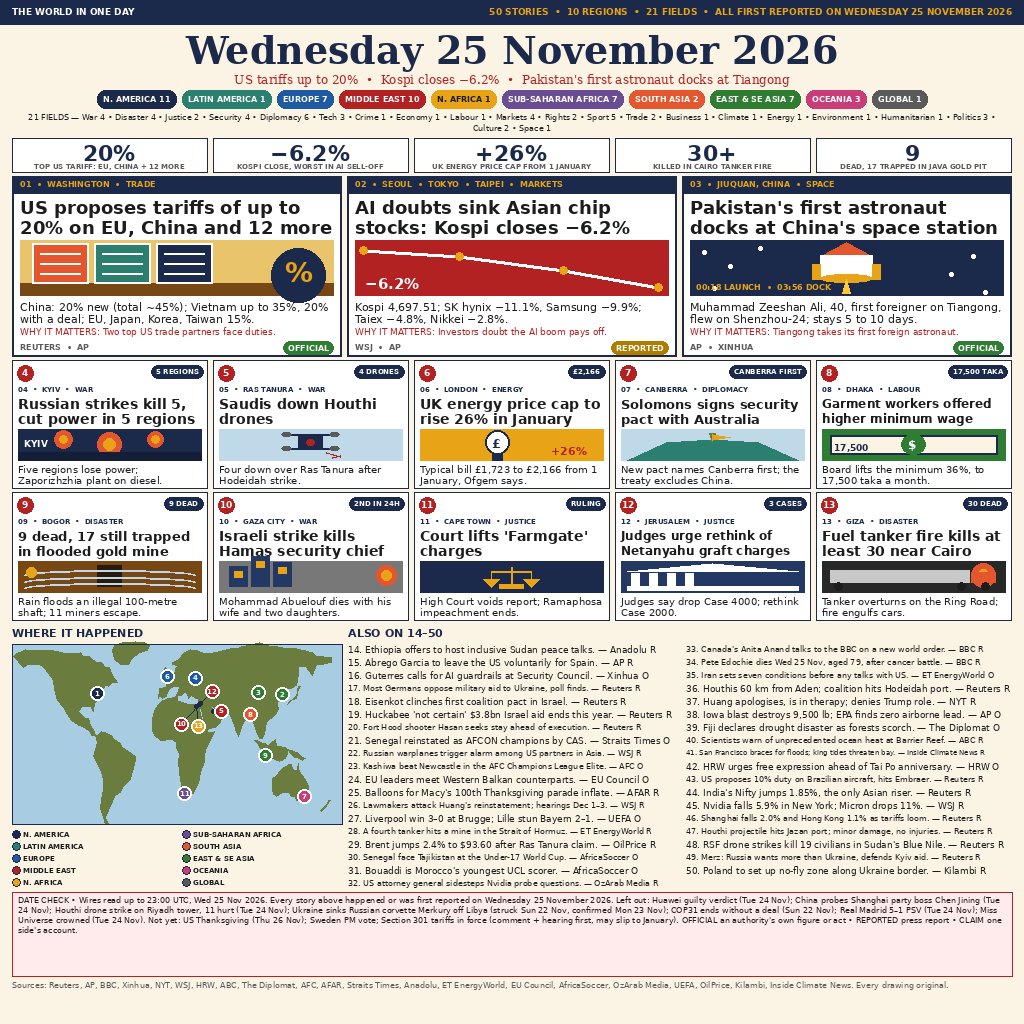
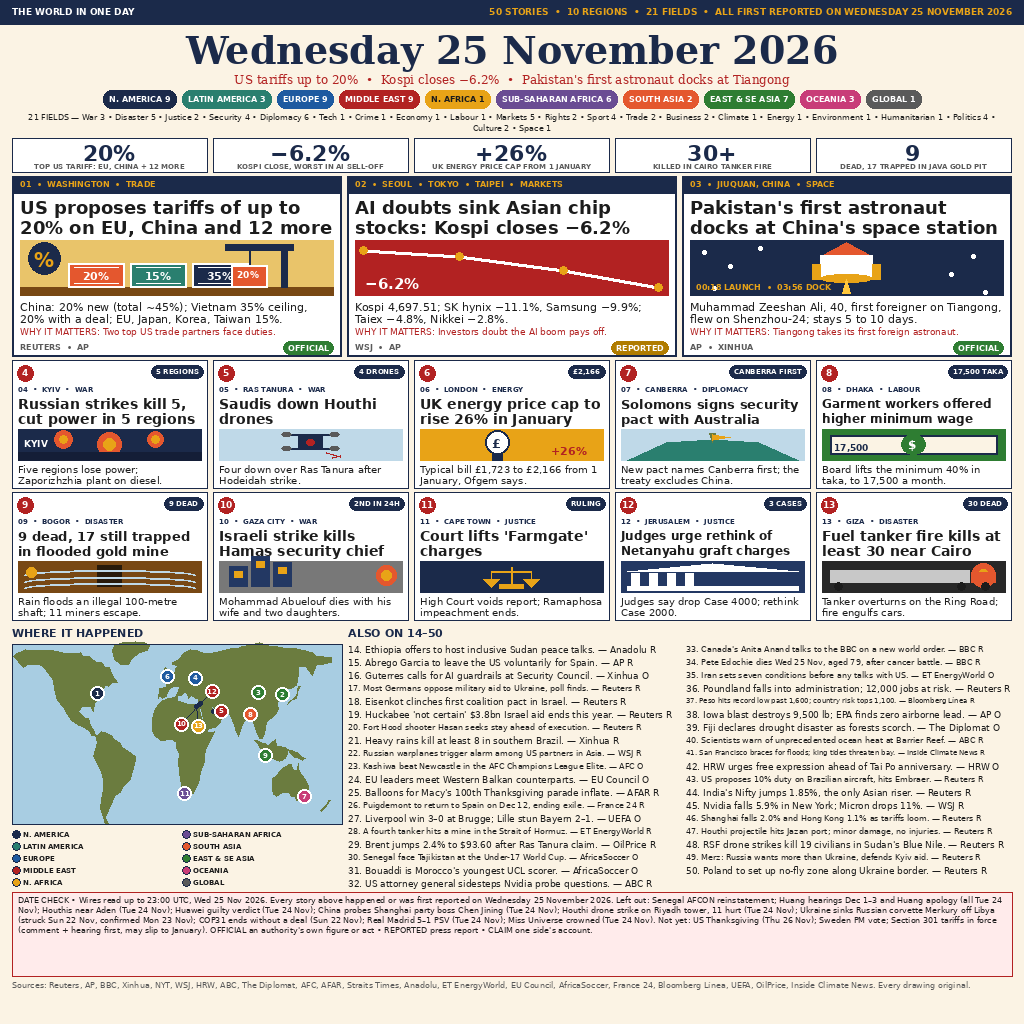
v6: fix stale items + 36% + panel 01 + breadth

diff --git a/draw.py b/draw.py
@@ -120,8 +120,8 @@ STORIES = [
     dict(num=1, region="N. AMERICA", field="Trade",
          kicker="01  •  WASHINGTON  •  TRADE",
          headline="US proposes tariffs of up to 20% on EU, China and 12 more",
-         deck="China: 20% new (total ~45%); Vietnam up to 35%, 20% with a deal; "
-              "EU, Japan, Korea, Taiwan 15%.",
+         deck="China: 20% new (total ~45%); Vietnam 35% ceiling, 20% with a "
+              "deal; EU, Japan, Korea, Taiwan 15%.",
          why="Two top US trade partners face duties.",
          source="REUTERS  •  AP", ver="O", art="tariffs"),
     dict(num=2, region="EAST & SE ASIA", field="Markets",
@@ -162,7 +162,7 @@ STORIES = [
     dict(num=8, region="SOUTH ASIA", field="Labour",
          kicker="08  •  DHAKA  •  LABOUR",
          headline="Garment workers offered higher minimum wage",
-         deck="Board lifts the minimum 36%, to 17,500 taka a month.",
+         deck="Board lifts the minimum 40% in taka, to 17,500 a month.",
          stat="17,500 TAKA", art="wage"),
     dict(num=9, region="EAST & SE ASIA", field="Disaster",
          kicker="09  •  BOGOR  •  DISASTER",
@@ -211,9 +211,9 @@ STORIES = [
     dict(num=20, region="N. AMERICA", field="Crime",
          text="Fort Hood shooter Hasan seeks stay ahead of execution.",
          source="Reuters", ver="R"),
-    dict(num=21, region="SUB-SAHARAN AFRICA", field="Sport",
-         text="Senegal reinstated as AFCON champions by CAS.",
-         source="Straits Times", ver="O"),
+    dict(num=21, region="LATIN AMERICA", field="Disaster",
+         text="Heavy rains kill at least 8 in southern Brazil.",
+         source="Xinhua", ver="R"),
     dict(num=22, region="EAST & SE ASIA", field="Security",
          text="Russian warplanes trigger alarm among US partners in Asia.",
          source="WSJ", ver="R"),
@@ -226,9 +226,9 @@ STORIES = [
     dict(num=25, region="N. AMERICA", field="Culture",
          text="Balloons for Macy's 100th Thanksgiving parade inflate.",
          source="AFAR", ver="R"),
-    dict(num=26, region="N. AMERICA", field="Tech",
-         text="Lawmakers attack Huang's reinstatement; hearings Dec 1–3.",
-         source="WSJ", ver="R"),
+    dict(num=26, region="EUROPE", field="Politics",
+         text="Puigdemont to return to Spain on Dec 12, ending exile.",
+         source="France 24", ver="R"),
     dict(num=27, region="EUROPE", field="Sport",
          text="Liverpool win 3–0 at Brugge; Lille stun Bayern 2–1.",
          source="UEFA", ver="O"),
@@ -246,7 +246,7 @@ STORIES = [
          source="AfricaSoccer", ver="O"),
     dict(num=32, region="N. AMERICA", field="Business",
          text="US attorney general sidesteps Nvidia probe questions.",
-         source="OzArab Media", ver="R"),
+         source="ABC", ver="R"),
     dict(num=33, region="N. AMERICA", field="Diplomacy",
          text="Canada's Anita Anand talks to the BBC on a new world order.",
          source="BBC", ver="R"),
@@ -256,12 +256,12 @@ STORIES = [
     dict(num=35, region="MIDDLE EAST", field="Diplomacy",
          text="Iran sets seven conditions before any talks with US.",
          source="ET EnergyWorld", ver="O"),
-    dict(num=36, region="MIDDLE EAST", field="War",
-         text="Houthis 60 km from Aden; coalition hits Hodeidah port.",
+    dict(num=36, region="EUROPE", field="Business",
+         text="Poundland falls into administration; 12,000 jobs at risk.",
          source="Reuters", ver="R"),
-    dict(num=37, region="N. AMERICA", field="Tech",
-         text="Huang apologises, is in therapy; denies Trump role.",
-         source="NYT", ver="R"),
+    dict(num=37, region="LATIN AMERICA", field="Markets",
+         text="Peso hits record low past 1,600; country risk tops 1,100.",
+         source="Bloomberg Línea", ver="R"),
     dict(num=38, region="N. AMERICA", field="Disaster",
          text="Iowa blast destroys 9,500 lb; EPA finds zero airborne lead.",
          source="AP", ver="O"),
@@ -300,7 +300,7 @@ STORIES = [
          source="Reuters", ver="R"),
     dict(num=50, region="EUROPE", field="Security",
          text="Poland to set up no-fly zone along Ukraine border.",
-         source="Kilambi", ver="R"),
+         source="Reuters", ver="R"),
 ]
 
 HEROES = STORIES[0:3]
@@ -317,7 +317,9 @@ NUMBERS = [
 
 DATE_CHECK = ("DATE CHECK  •  Wires read up to 23:00 UTC, Wed 25 Nov 2026. "
     "Every story above happened or was first reported on Wednesday "
-    "25 November 2026. Left out: Huawei guilty verdict (Tue 24 Nov); China "
+    "25 November 2026. Left out: Senegal AFCON reinstatement; Huang "
+    "hearings Dec 1–3 and Huang apology (all Tue 24 Nov); Houthis near "
+    "Aden (Tue 24 Nov); Huawei guilty verdict (Tue 24 Nov); China "
     "probes Shanghai party boss Chen Jining (Tue 24 Nov); Houthi drone "
     "strike on Riyadh tower, 11 hurt (Tue 24 Nov); Ukraine sinks Russian "
     "corvette Merkury off Libya (struck Sun 22 Nov, confirmed Mon 23 Nov); "
@@ -330,23 +332,39 @@ DATE_CHECK = ("DATE CHECK  •  Wires read up to 23:00 UTC, Wed 25 Nov 2026. "
 
 FOOTER = ("Sources: Reuters, AP, BBC, Xinhua, NYT, WSJ, HRW, ABC, "
     "The Diplomat, AFC, AFAR, Straits Times, Anadolu, ET EnergyWorld, "
-    "EU Council, AfricaSoccer, OzArab Media, UEFA, OilPrice, Kilambi, "
+    "EU Council, AfricaSoccer, France 24, Bloomberg Línea, UEFA, OilPrice, "
     "Inside Climate News. Every drawing original.")
 
 
 # ---- flat-vector art scenes (each draws inside box x,y,w,h) ----
 def art_tariffs(d, x, y, w, h):
+    # Port + tariff-rate containers: reads instantly at 300px.
     d.rectangle([x, y, x + w, y + h], fill=(233, 196, 106))
-    d.rectangle([x, y + h - 12, x + w, y + h], fill=BROWN)
-    for i, c in enumerate([(228, 87, 46), (42, 127, 111), (27, 42, 74)]):
-        bx = x + 12 + i * 62
-        d.rectangle([bx, y + h - 52, bx + 56, y + h - 12], fill=c,
+    d.rectangle([x, y + h - 8, x + w, y + h], fill=BROWN)
+    # big % stamp, top left
+    d.ellipse([x + 8, y + 2, x + 40, y + 34], fill=NAVY)
+    d.text((x + 14, y + 8), "%", font=font(20, bold=True), fill=MUSTARD)
+    # rate-labelled containers along the quay
+    rates = [("20%", CORAL), ("15%", TEAL), ("35%", NAVY)]
+    for i, (lab, col) in enumerate(rates):
+        bx = x + 48 + i * 62
+        by = y + h - 32
+        d.rectangle([bx, by, bx + 56, by + 24], fill=col,
                     outline=WHITE, width=2)
-        for k in range(3):
-            d.line([bx + 8, y + h - 42 + k * 10, bx + 48, y + h - 42 + k * 10],
-                   fill=WHITE, width=2)
-    d.ellipse([x + w - 62, y + 8, x + w - 8, y + 62], fill=NAVY)
-    d.text((x + w - 48, y + 16), "%", font=font(28, bold=True), fill=MUSTARD)
+        for k in (4, 20):
+            d.line([bx + 6, by + k, bx + 50, by + k], fill=WHITE,
+                   width=1)
+        fnt = font(11, bold=True)
+        d.text((bx + 28 - d.textlength(lab, font=fnt) / 2, by + 6), lab,
+               font=fnt, fill=WHITE)
+    # gantry crane, right: mast, jib, cable, hanging container
+    d.rectangle([x + w - 52, y + 4, x + w - 46, y + h - 8], fill=NAVY)
+    d.rectangle([x + w - 108, y + 4, x + w - 40, y + 10], fill=NAVY)
+    d.line([x + w - 84, y + 10, x + w - 84, y + h - 30], fill=NAVY, width=2)
+    d.rectangle([x + w - 102, y + h - 30, x + w - 66, y + h - 8],
+                fill=CORAL, outline=WHITE, width=2)
+    d.text((x + w - 96, y + h - 26), "20%", font=font(9, bold=True),
+           fill=WHITE)
 
 
 def art_chart(d, x, y, w, h):
